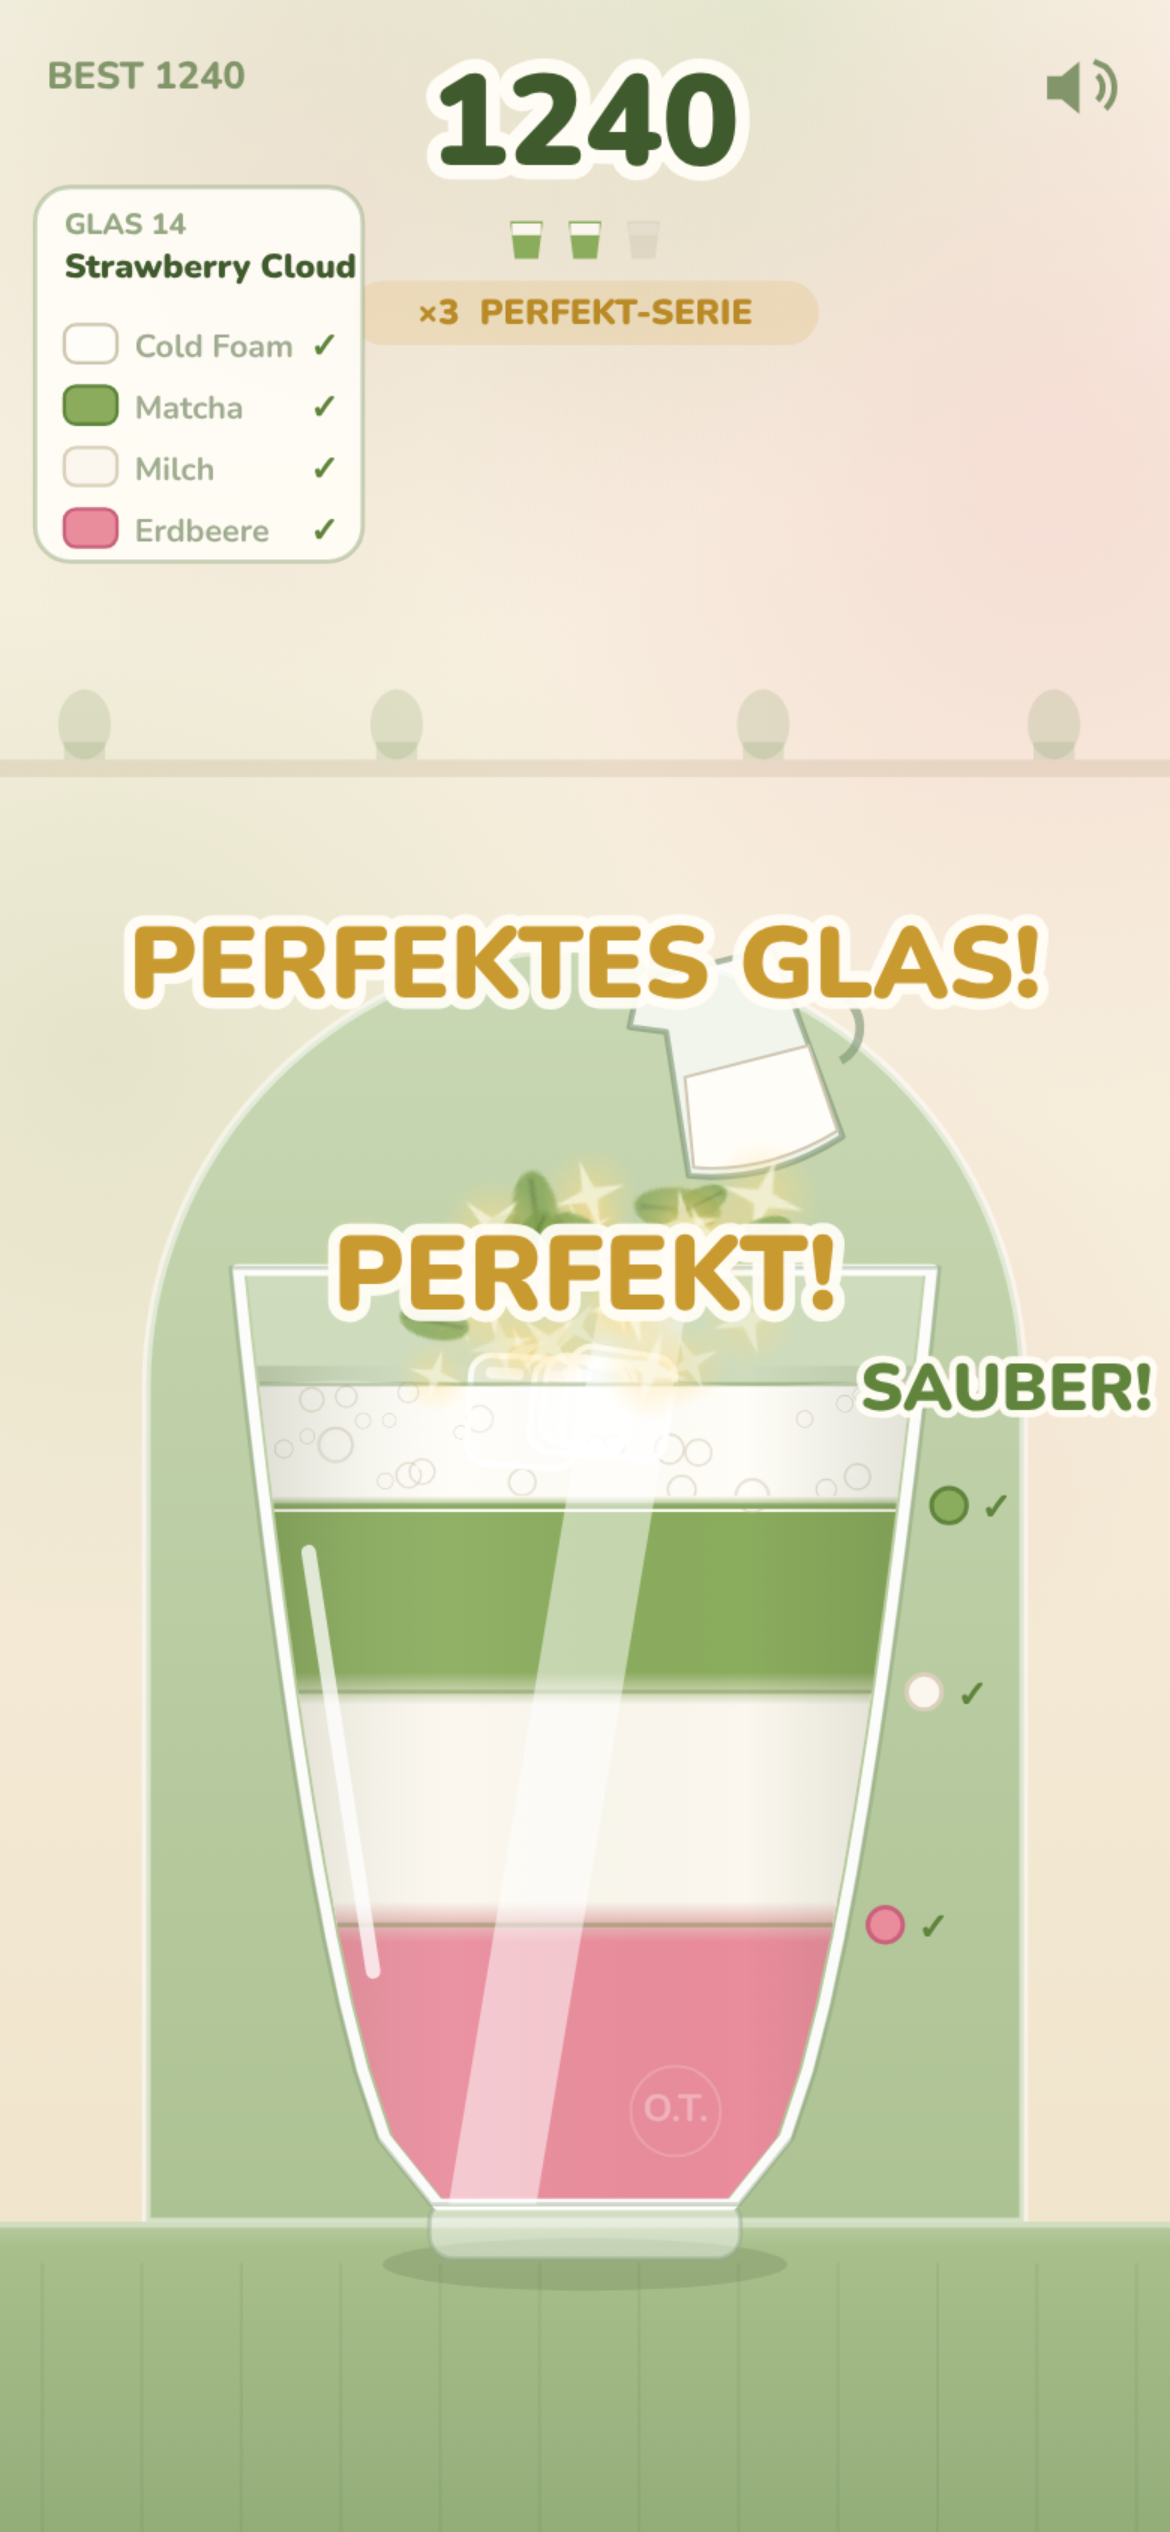
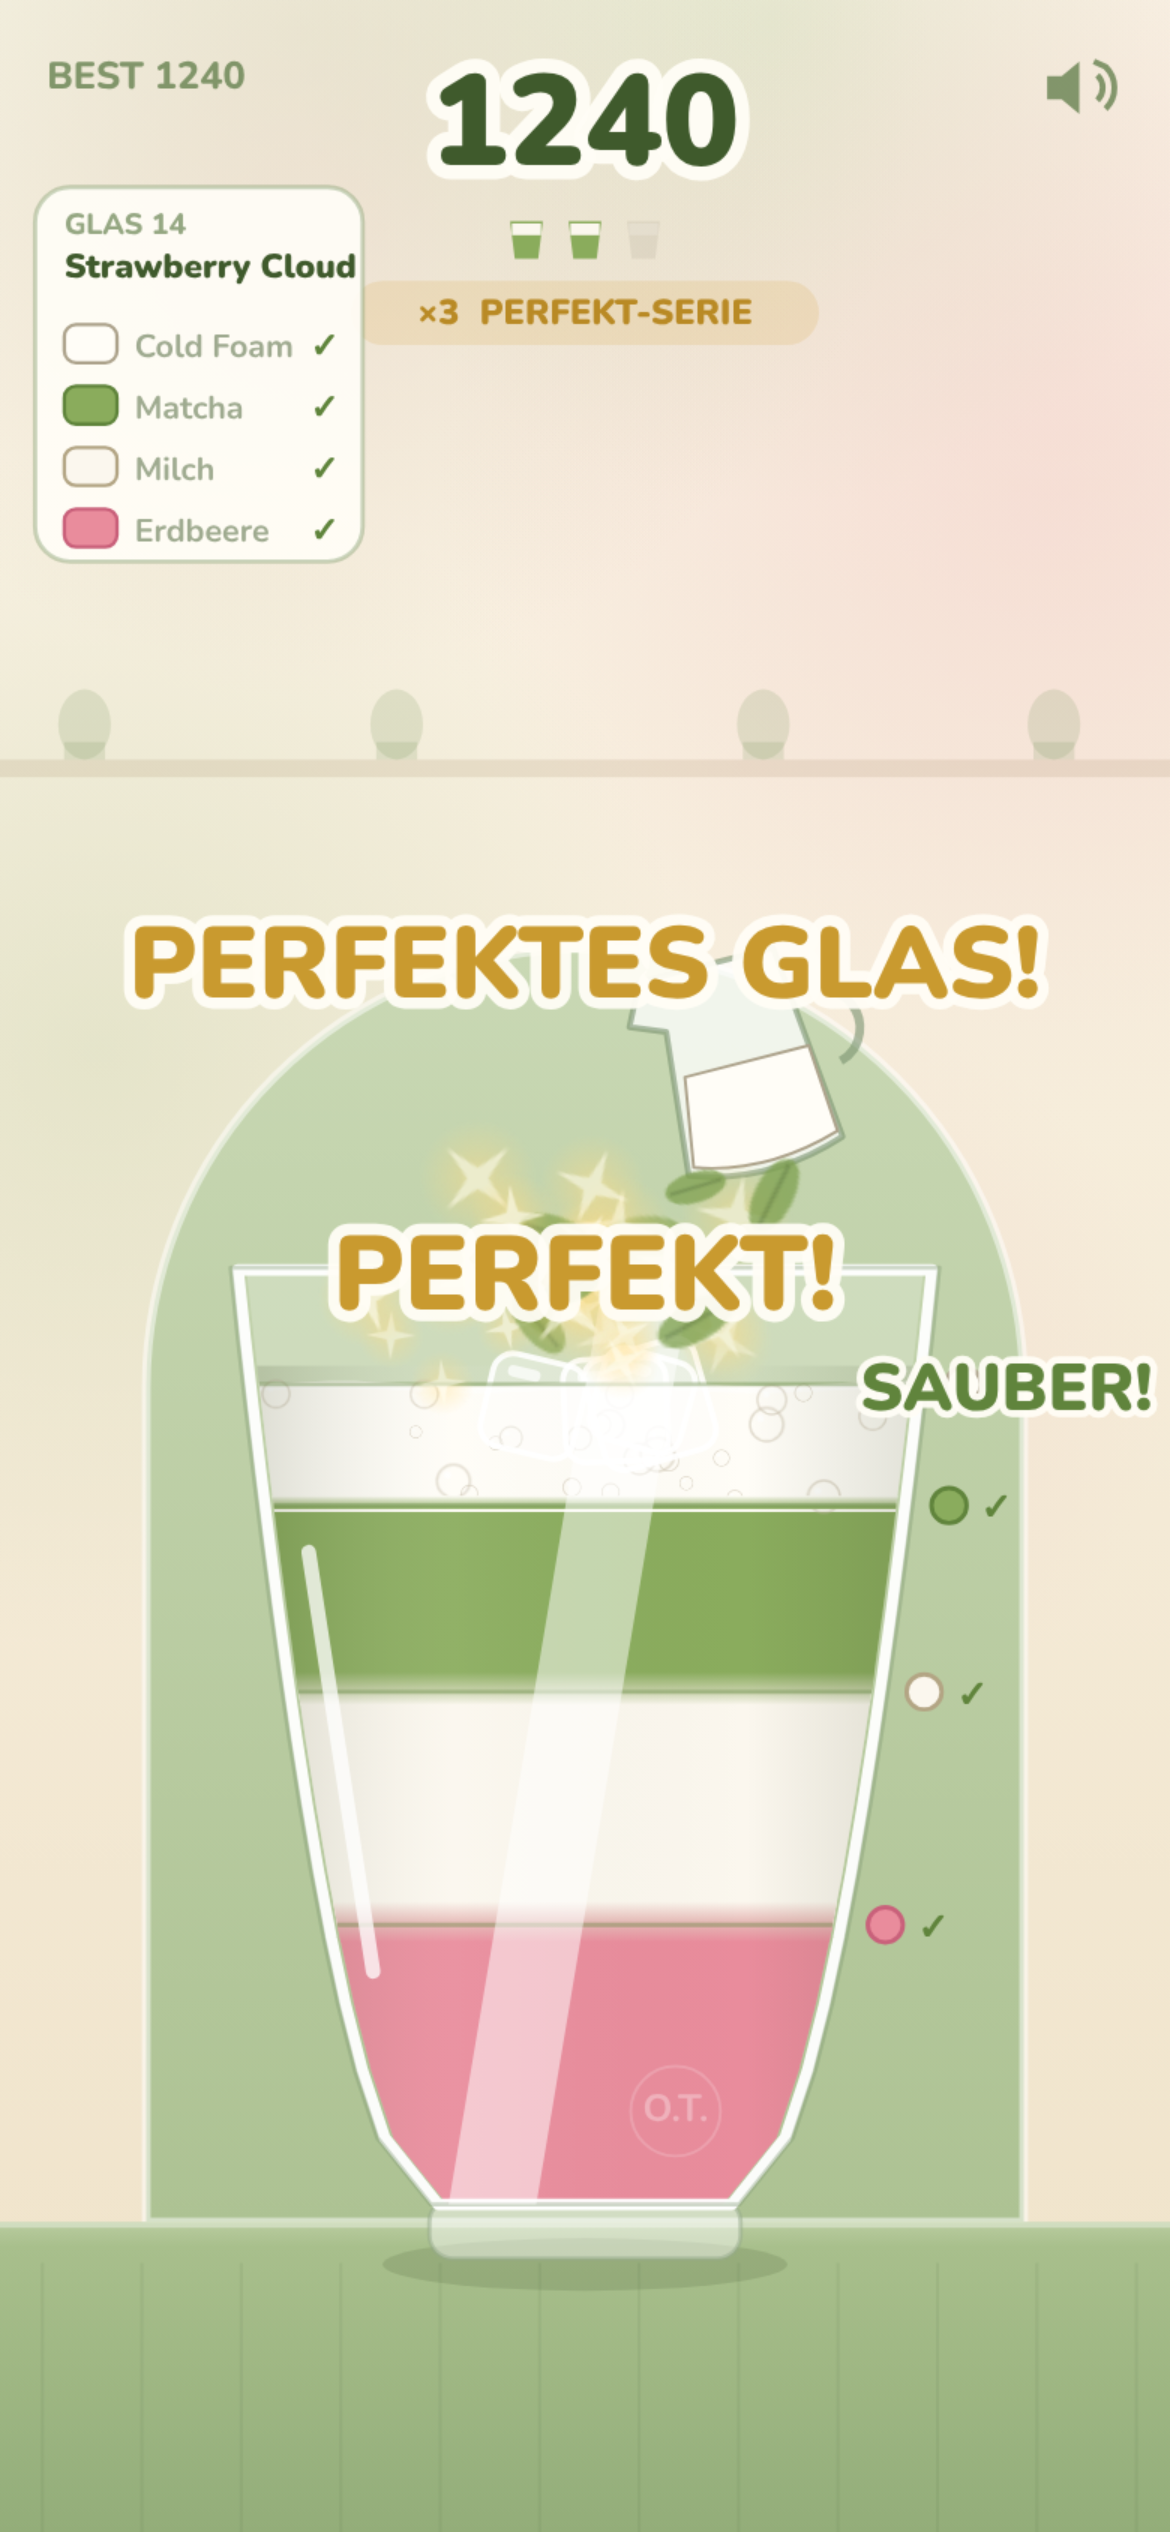
Darker target lines for pale ingredients; refreshed screenshots

Changed region(s): [[0.4, 0.4368, 0.6769, 0.5616], [0.3077, 0.4992, 0.4, 0.5304], [0.7692, 0.6552, 0.8, 0.6864]]

diff --git a/game.js b/game.js
@@ -33,11 +33,11 @@ const T = {
   // ingredients: flow = stream multiplier, tail = after-flow (s of current stream) arriving over tailT,
   // rise = share of the poured volume that expands afterwards over riseT (foam), cloud = sinking cloud fx
   ING: {
-    milk:       { name: 'Milch',     col: '#fbf7ee', dark: '#d9cfba', flow: 1.00, tail: 0.015, tailT: 0.12, rise: 0,    riseT: 1,   cloud: 0 },
+    milk:       { name: 'Milch',     col: '#fbf7ee', dark: '#b3a584', flow: 1.00, tail: 0.015, tailT: 0.12, rise: 0,    riseT: 1,   cloud: 0 },
     matcha:     { name: 'Matcha',    col: '#8aac5c', dark: '#5f843b', flow: 0.95, tail: 0.10,  tailT: 0.45, rise: 0,    riseT: 1,   cloud: 1 },
     strawberry: { name: 'Erdbeere',  col: '#e98c9c', dark: '#c9607a', flow: 0.72, tail: 0.06,  tailT: 0.60, rise: 0,    riseT: 1,   cloud: 0 },
-    coconut:    { name: 'Kokos',     col: '#efe7d6', dark: '#c8b994', flow: 1.05, tail: 0.035, tailT: 0.20, rise: 0,    riseT: 1,   cloud: 0 },
-    foam:       { name: 'Cold Foam', col: '#fffdf7', dark: '#cfc6b2', flow: 0.85, tail: 0.01,  tailT: 0.10, rise: 0.24, riseT: 0.9, cloud: 0 },
+    coconut:    { name: 'Kokos',     col: '#efe7d6', dark: '#a8956a', flow: 1.05, tail: 0.035, tailT: 0.20, rise: 0,    riseT: 1,   cloud: 0 },
+    foam:       { name: 'Cold Foam', col: '#fffdf7', dark: '#ada38c', flow: 0.85, tail: 0.01,  tailT: 0.10, rise: 0.24, riseT: 0.9, cloud: 0 },
   },
   // glass shapes: H = inner height (px), hw(h) = inner half width at height fraction h
   GLASS: {
